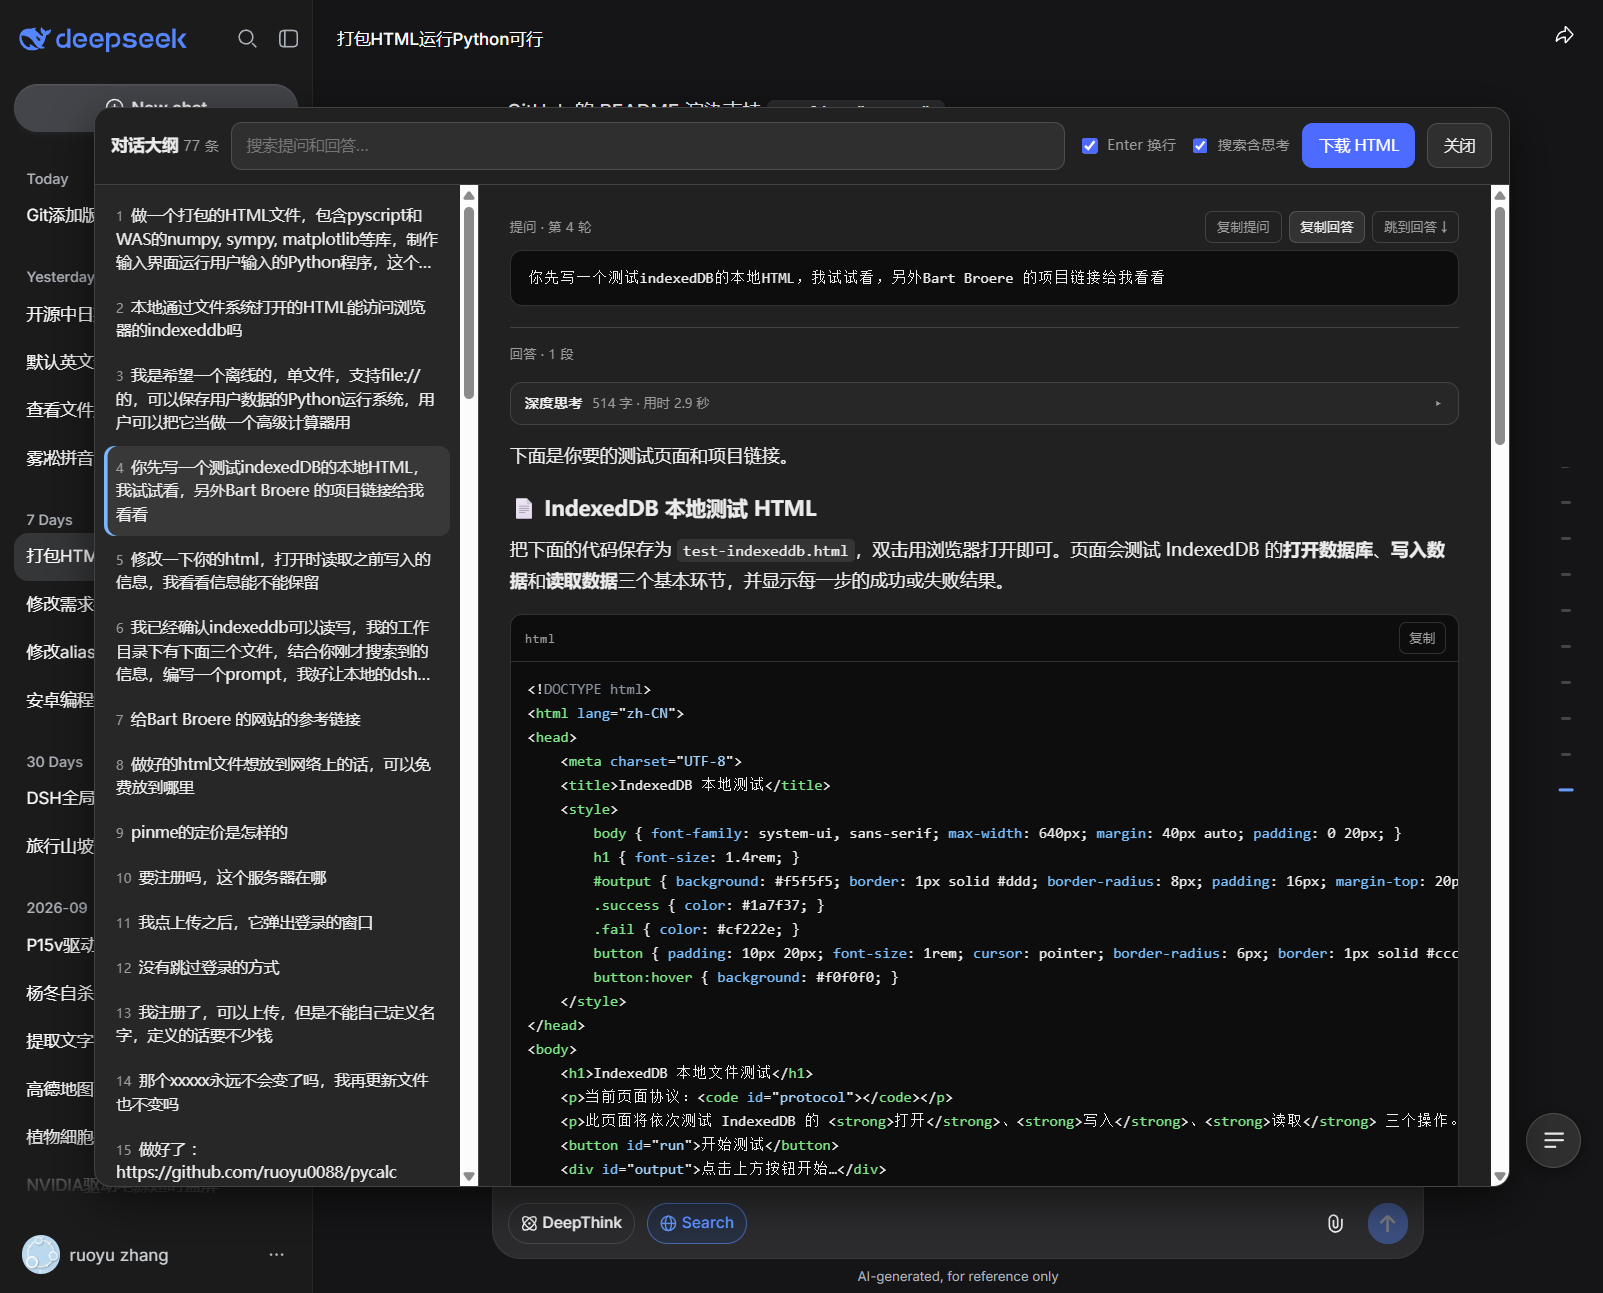
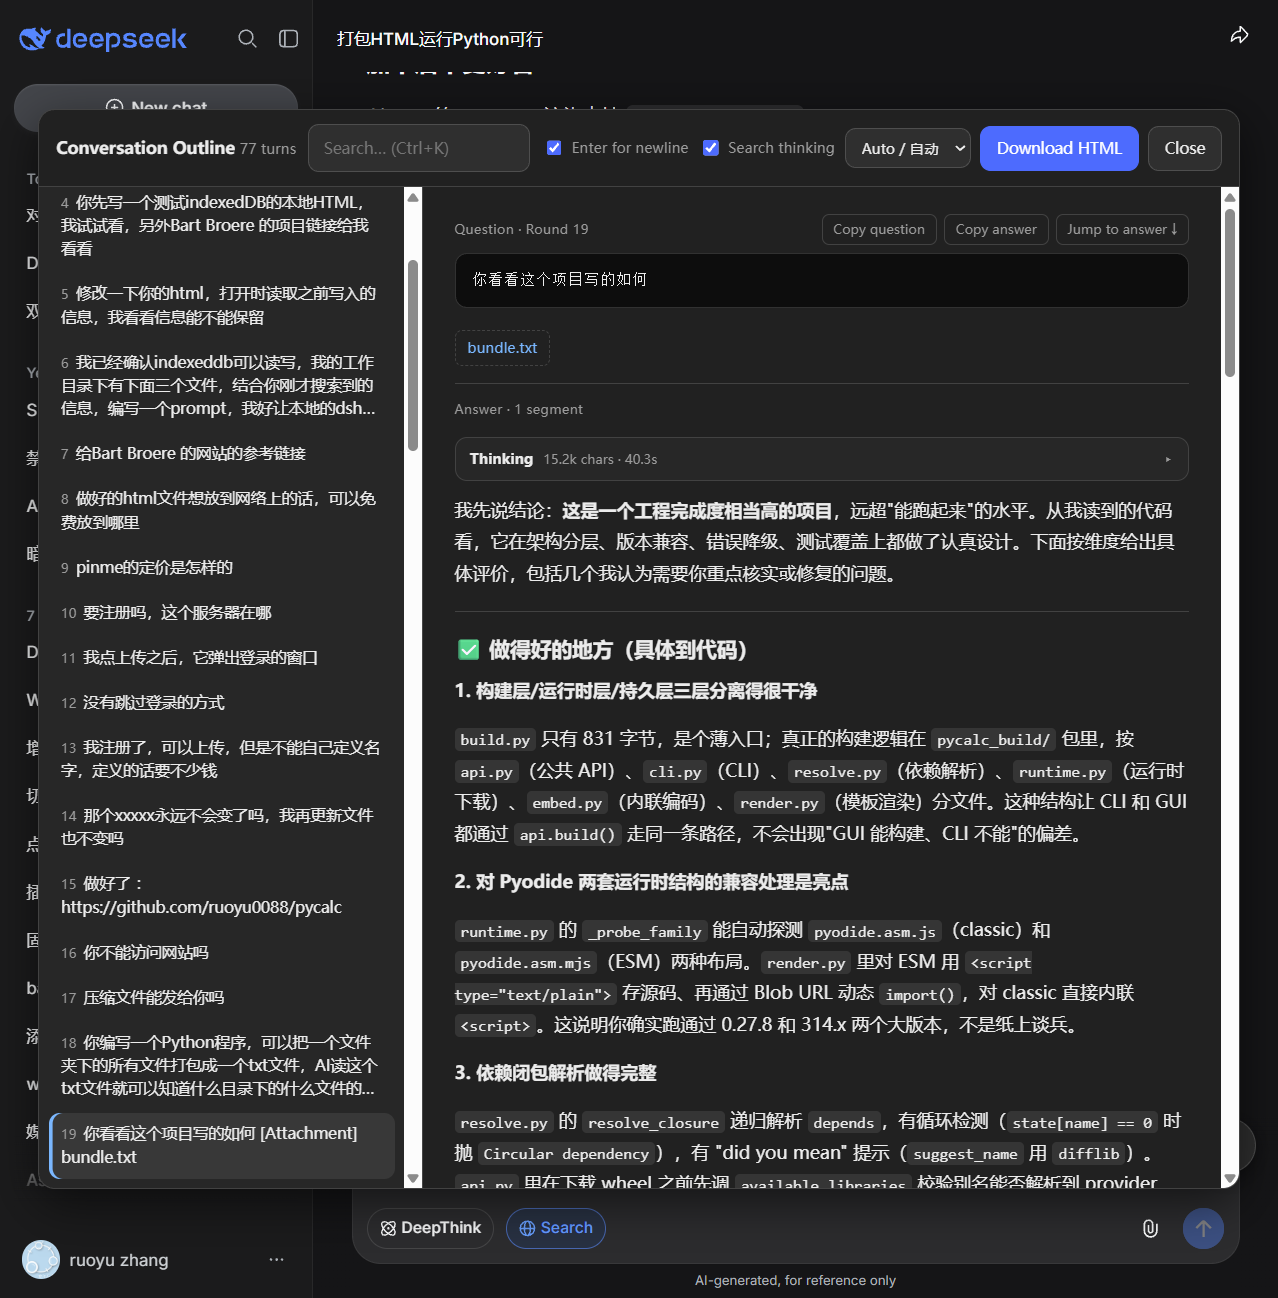
fix(ui): 面板头部窄窗口不再把「关闭」单独换行，搜索框按宽度换短 placeholder
- 头部右侧控件（两个勾选框、语言下拉、下载、关闭）包进 .ho-actions，
  换行时整组一起走；搜索框 flex-basis 从 240px 收到 150px，1000px 左右宽度下仍是一行
- 新增 applySearchPlaceholder()：按搜索框实际宽度在「长文案（带 Ctrl+K）/ 短文案 / 极短」
  之间切换 placeholder，并保留完整文案与快捷键提示到 title；用 ResizeObserver 跟随窗口缩放
- i18n 新增 searchPlaceholderTiny（zh「搜索…（Ctrl+K）」/ en「Search… (Ctrl+K)」）
- 顺手整理 .ho-lang 的缩进；刷新 docs/screenshot-dark.png、docs/screenshot-light.png

diff --git a/ext/src/content.js b/ext/src/content.js
@@ -241,19 +241,21 @@
         <div class="ho-head">
           <div class="ho-title"><span class="ho-title-text"></span> <span class="ho-count"></span></div>
           <input class="ho-search" type="search" autocomplete="off">
-          <label class="ho-toggle">
-            <input type="checkbox" class="ho-enter-toggle"> <span class="ho-enter-text"></span>
-          </label>
-          <label class="ho-toggle">
-            <input type="checkbox" class="ho-think-toggle"> <span class="ho-think-text"></span>
-          </label>
-          <select class="ho-lang">
-            <option value="auto"></option>
-            <option value="zh"></option>
-            <option value="en"></option>
-          </select>
-          <button class="ho-btn primary ho-download" type="button"></button>
-          <button class="ho-btn ho-close" type="button"></button>
+          <div class="ho-actions">
+            <label class="ho-toggle">
+              <input type="checkbox" class="ho-enter-toggle"> <span class="ho-enter-text"></span>
+            </label>
+            <label class="ho-toggle">
+              <input type="checkbox" class="ho-think-toggle"> <span class="ho-think-text"></span>
+            </label>
+            <select class="ho-lang">
+              <option value="auto"></option>
+              <option value="zh"></option>
+              <option value="en"></option>
+            </select>
+            <button class="ho-btn primary ho-download" type="button"></button>
+            <button class="ho-btn ho-close" type="button"></button>
+          </div>
         </div>
         <div class="ho-body">
           <ul class="ho-list"></ul>
@@ -275,6 +277,8 @@
 
     try { expanded = localStorage.getItem("ds-outline:panel-expanded") === "1"; } catch (e) { expanded = false; }
     ui.panel.classList.toggle("ho-max", expanded);
+
+    try { new ResizeObserver(applySearchPlaceholder).observe(ui.search); } catch (e) { /* 老浏览器无 RO */ }
 
     // "Enter 换行"开关：真正的键盘接管在 src/keymaps.js（document_start 加载），
     // 这里只负责读写同一个 localStorage 开关。
@@ -347,12 +351,21 @@
   }
 
   /** 把静态控件的文案刷新成当前语言（语言切换后调用）。 */
+  /** 搜索框宽度不够时换更短的 placeholder（长文案带快捷键提示，窄面板里会被截断） */
+  function applySearchPlaceholder() {
+    if (!ui) return;
+    const w = ui.search.clientWidth;
+    const key = w >= 300 ? "searchPlaceholder" : w >= 215 ? "searchPlaceholderShort" : "searchPlaceholderTiny";
+    const text = t(key);
+    if (ui.search.placeholder !== text) ui.search.placeholder = text;
+    ui.search.title = t("searchPlaceholder") + "\n" + t("searchFocusTitle");
+  }
+
   function refreshStaticText() {
     if (!ui) return;
     ui.fab.title = t("fabTitle");
     ui.titleText.textContent = t("appName");
-    ui.search.placeholder = t("searchPlaceholder");
-    ui.search.title = t("searchFocusTitle");
+    applySearchPlaceholder();
     ui.enterText.textContent = t("enterNewline");
     ui.enterText.parentElement.title = t("enterNewlineTitle");
     ui.thinkText.textContent = t("searchThinking");

diff --git a/ext/src/styles.js b/ext/src/styles.js
@@ -78,8 +78,10 @@
 }
 .ho-title { font-size: 14px; font-weight: 600; white-space: nowrap; }
 .ho-count { font-weight: 400; color: var(--ho-fg-dim); font-size: 12px; }
+/* 右侧一组控件整体换行：窄窗口时不会把"关闭"单独甩到第二行 */
+.ho-actions { display: flex; align-items: center; gap: 8px; margin-left: auto; flex-wrap: wrap; }
 .ho-search {
-  flex: 1 1 240px; min-width: 160px; background: var(--ho-bg-soft); color: inherit;
+  flex: 1 1 150px; min-width: 120px; background: var(--ho-bg-soft); color: inherit;
   border: 1px solid var(--ho-border); border-radius: 9px; padding: 8px 12px;
   font: inherit; font-size: 13px; outline: none;
 }
@@ -90,11 +92,11 @@
 }
 .ho-toggle input { width: 13px; height: 13px; accent-color: #4d6bfe; cursor: pointer; }
 .ho-lang {
-    background: var(--ho-bg-soft); color: inherit; border: 1px solid var(--ho-border);
-    border-radius: 9px; padding: 7px 10px; font: inherit; font-size: 12px; cursor: pointer;
-    outline: none; white-space: nowrap;
-  }
-  .ho-lang:focus { border-color: var(--ho-accent); }
+  background: var(--ho-bg-soft); color: inherit; border: 1px solid var(--ho-border);
+  border-radius: 9px; padding: 7px 10px; font: inherit; font-size: 12px; cursor: pointer;
+  outline: none; white-space: nowrap;
+}
+.ho-lang:focus { border-color: var(--ho-accent); }
 .ho-btn {
   background: var(--ho-bg-soft); color: inherit; border: 1px solid var(--ho-border);
   border-radius: 9px; padding: 7px 13px; font: inherit; font-size: 13px; cursor: pointer;

diff --git a/ext/src/i18n.js b/ext/src/i18n.js
@@ -16,6 +16,7 @@
     fabTitle: "对话大纲：列出本对话的全部提问与回答",
     searchPlaceholder: "搜索提问和回答…（Ctrl+K 聚焦）",
     searchPlaceholderShort: "搜索提问和回答…",
+    searchPlaceholderTiny: "搜索…（Ctrl+K）",
     searchFocusTitle: "按 Ctrl+K 聚焦搜索并全选",
     enterNewline: "Enter 换行",
     enterNewlineTitle: "勾选后：Enter 换行，Ctrl+Enter 发送",
@@ -89,6 +90,7 @@
     fabTitle: "Conversation outline: list every question and answer in this conversation",
     searchPlaceholder: "Search questions and answers… (Ctrl+K)",
     searchPlaceholderShort: "Search questions and answers…",
+    searchPlaceholderTiny: "Search… (Ctrl+K)",
     searchFocusTitle: "Press Ctrl+K to focus the search box and select all",
     enterNewline: "Enter for newline",
     enterNewlineTitle: "When checked: Enter inserts a newline, Ctrl+Enter sends",
